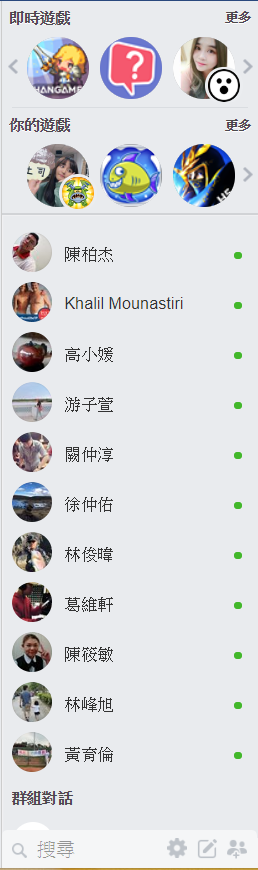
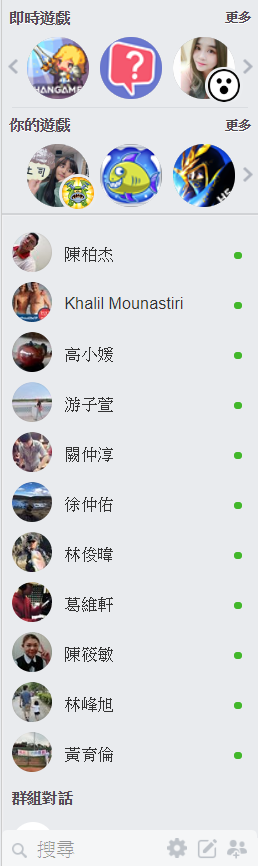
完成朋友欄位

diff --git a/index.html b/index.html
@@ -30,6 +30,9 @@
         <div id="meanuright">
             <img src="assets\meanuright.PNG">
         </div>
+        <div id="talk">
+            <img src="assets\talk.PNG">
+        </div> 
     </div>
 
 </body>

diff --git a/css/style.css b/css/style.css
@@ -37,3 +37,9 @@ img {
     width: 450px;
     margin: -2978px 150px 0px 830px;
 }
+
+#talk {
+    width: 206px;
+    position: fixed;
+    margin: -700px 0px 0px 1276px;
+}
